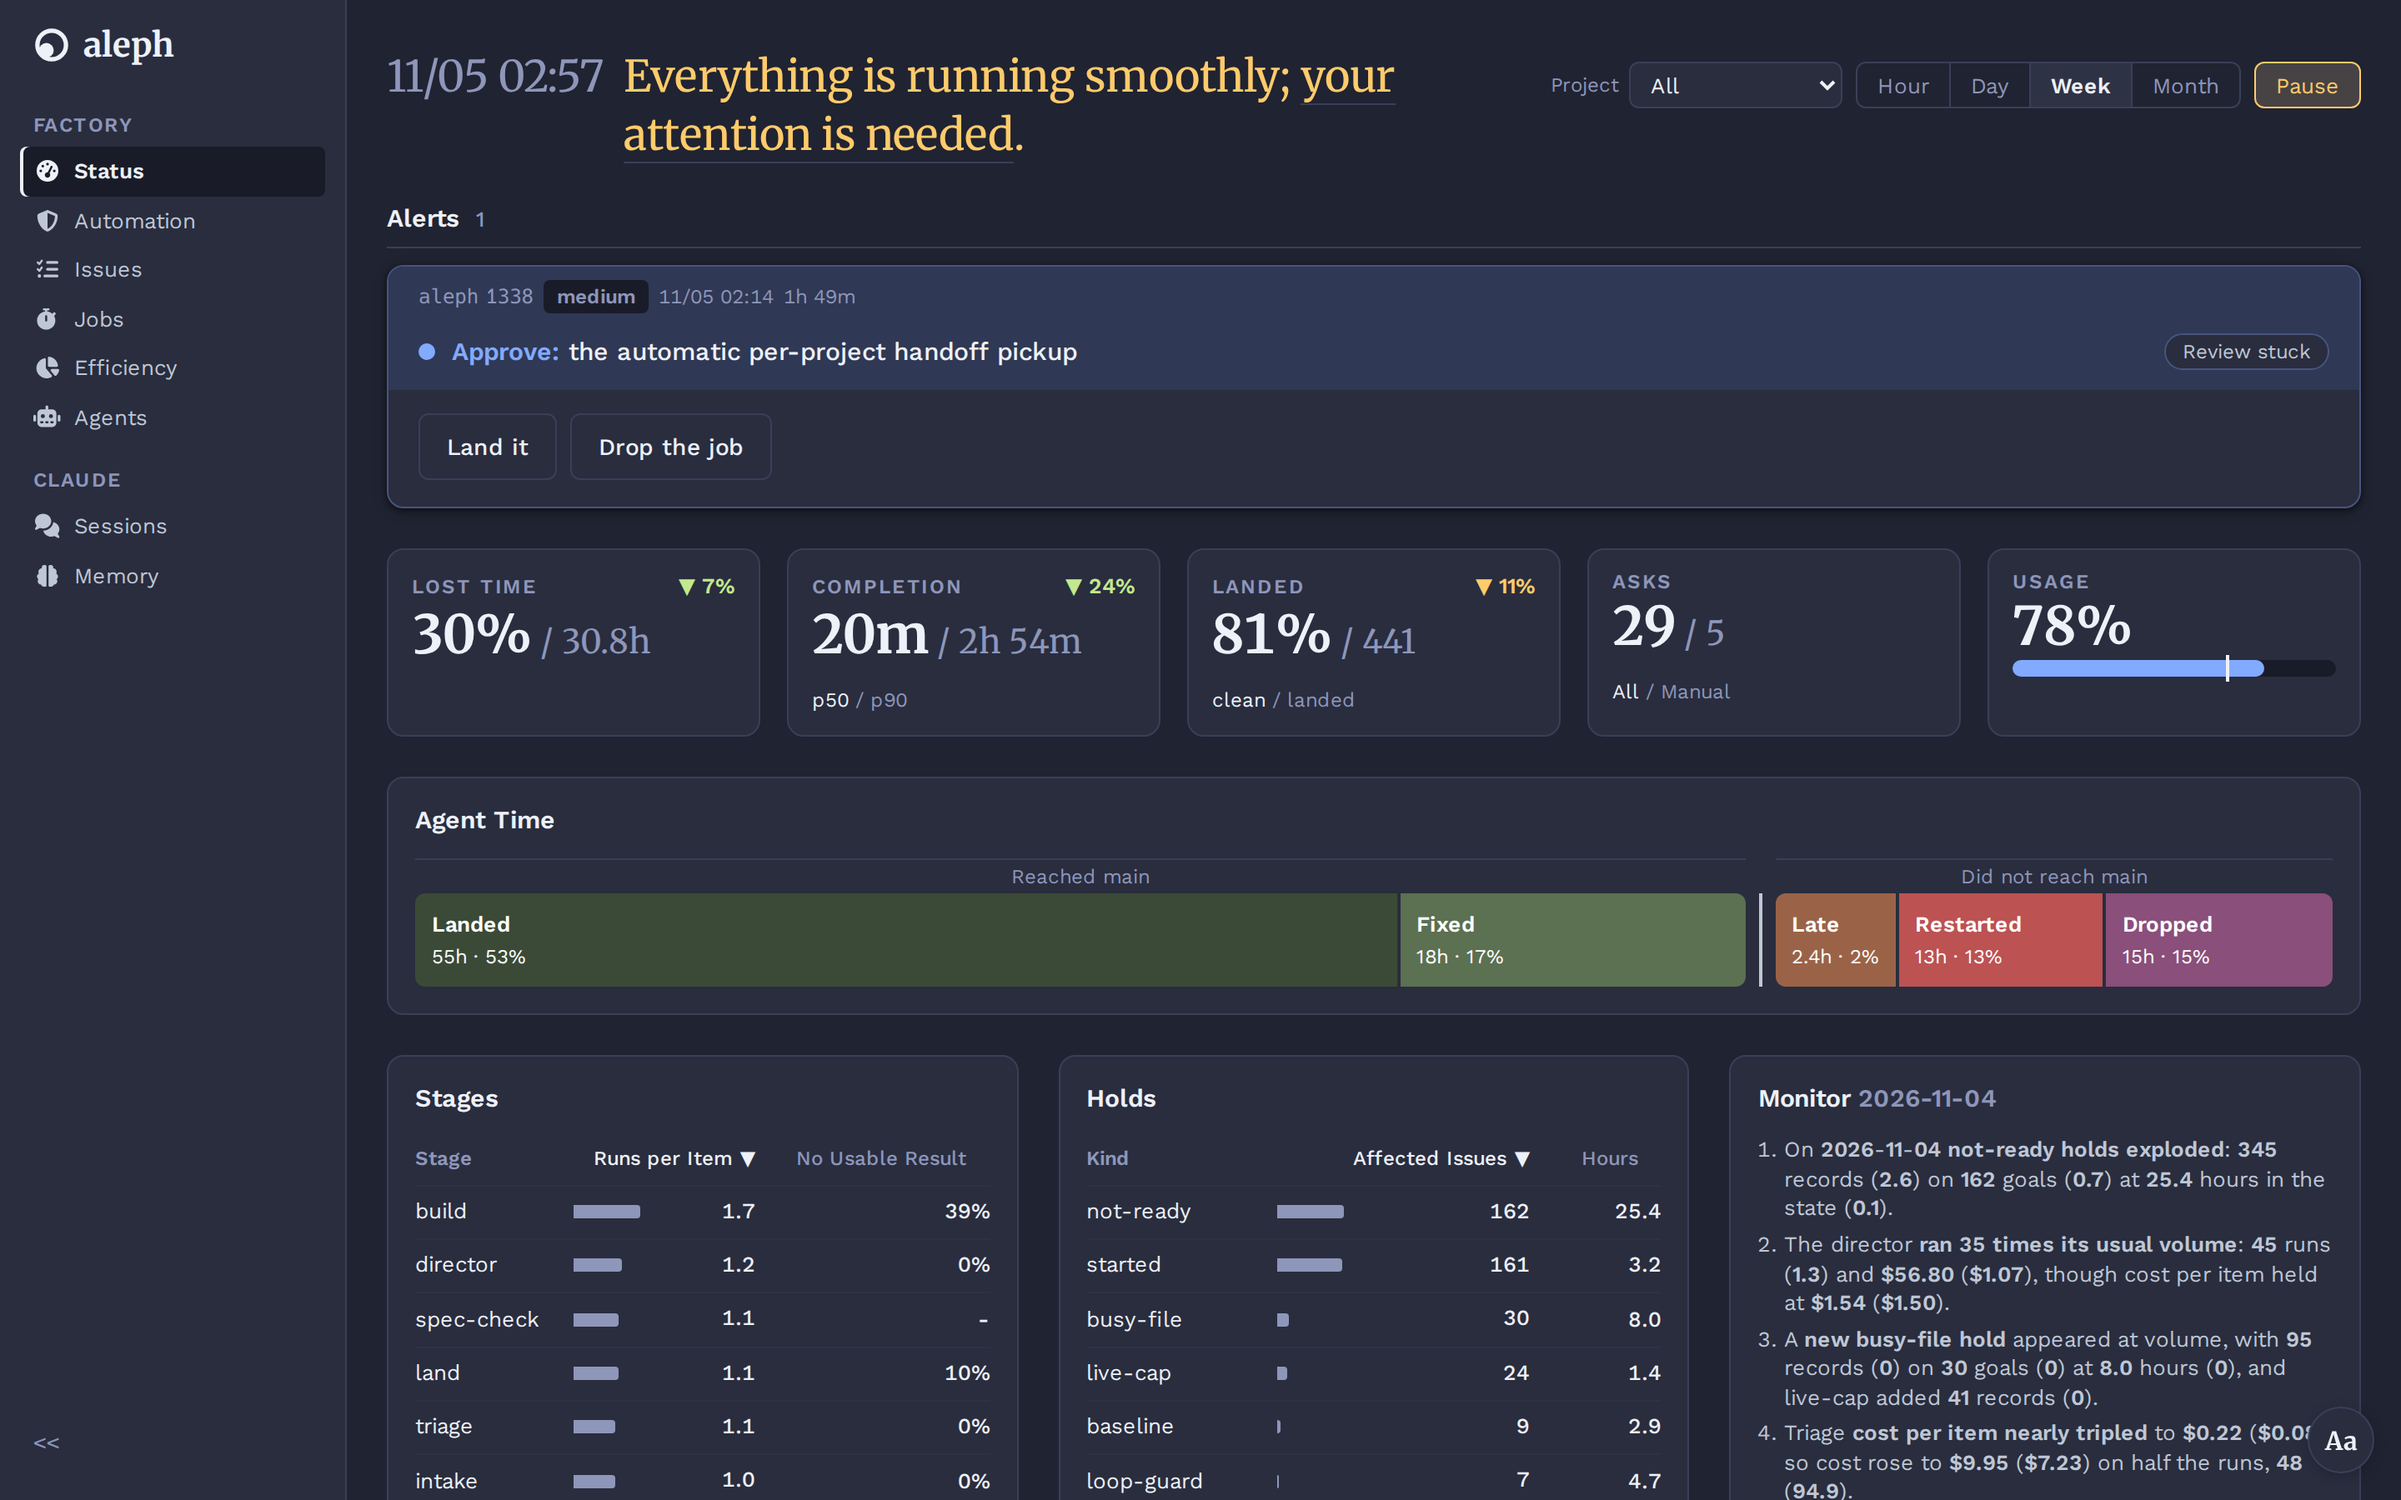
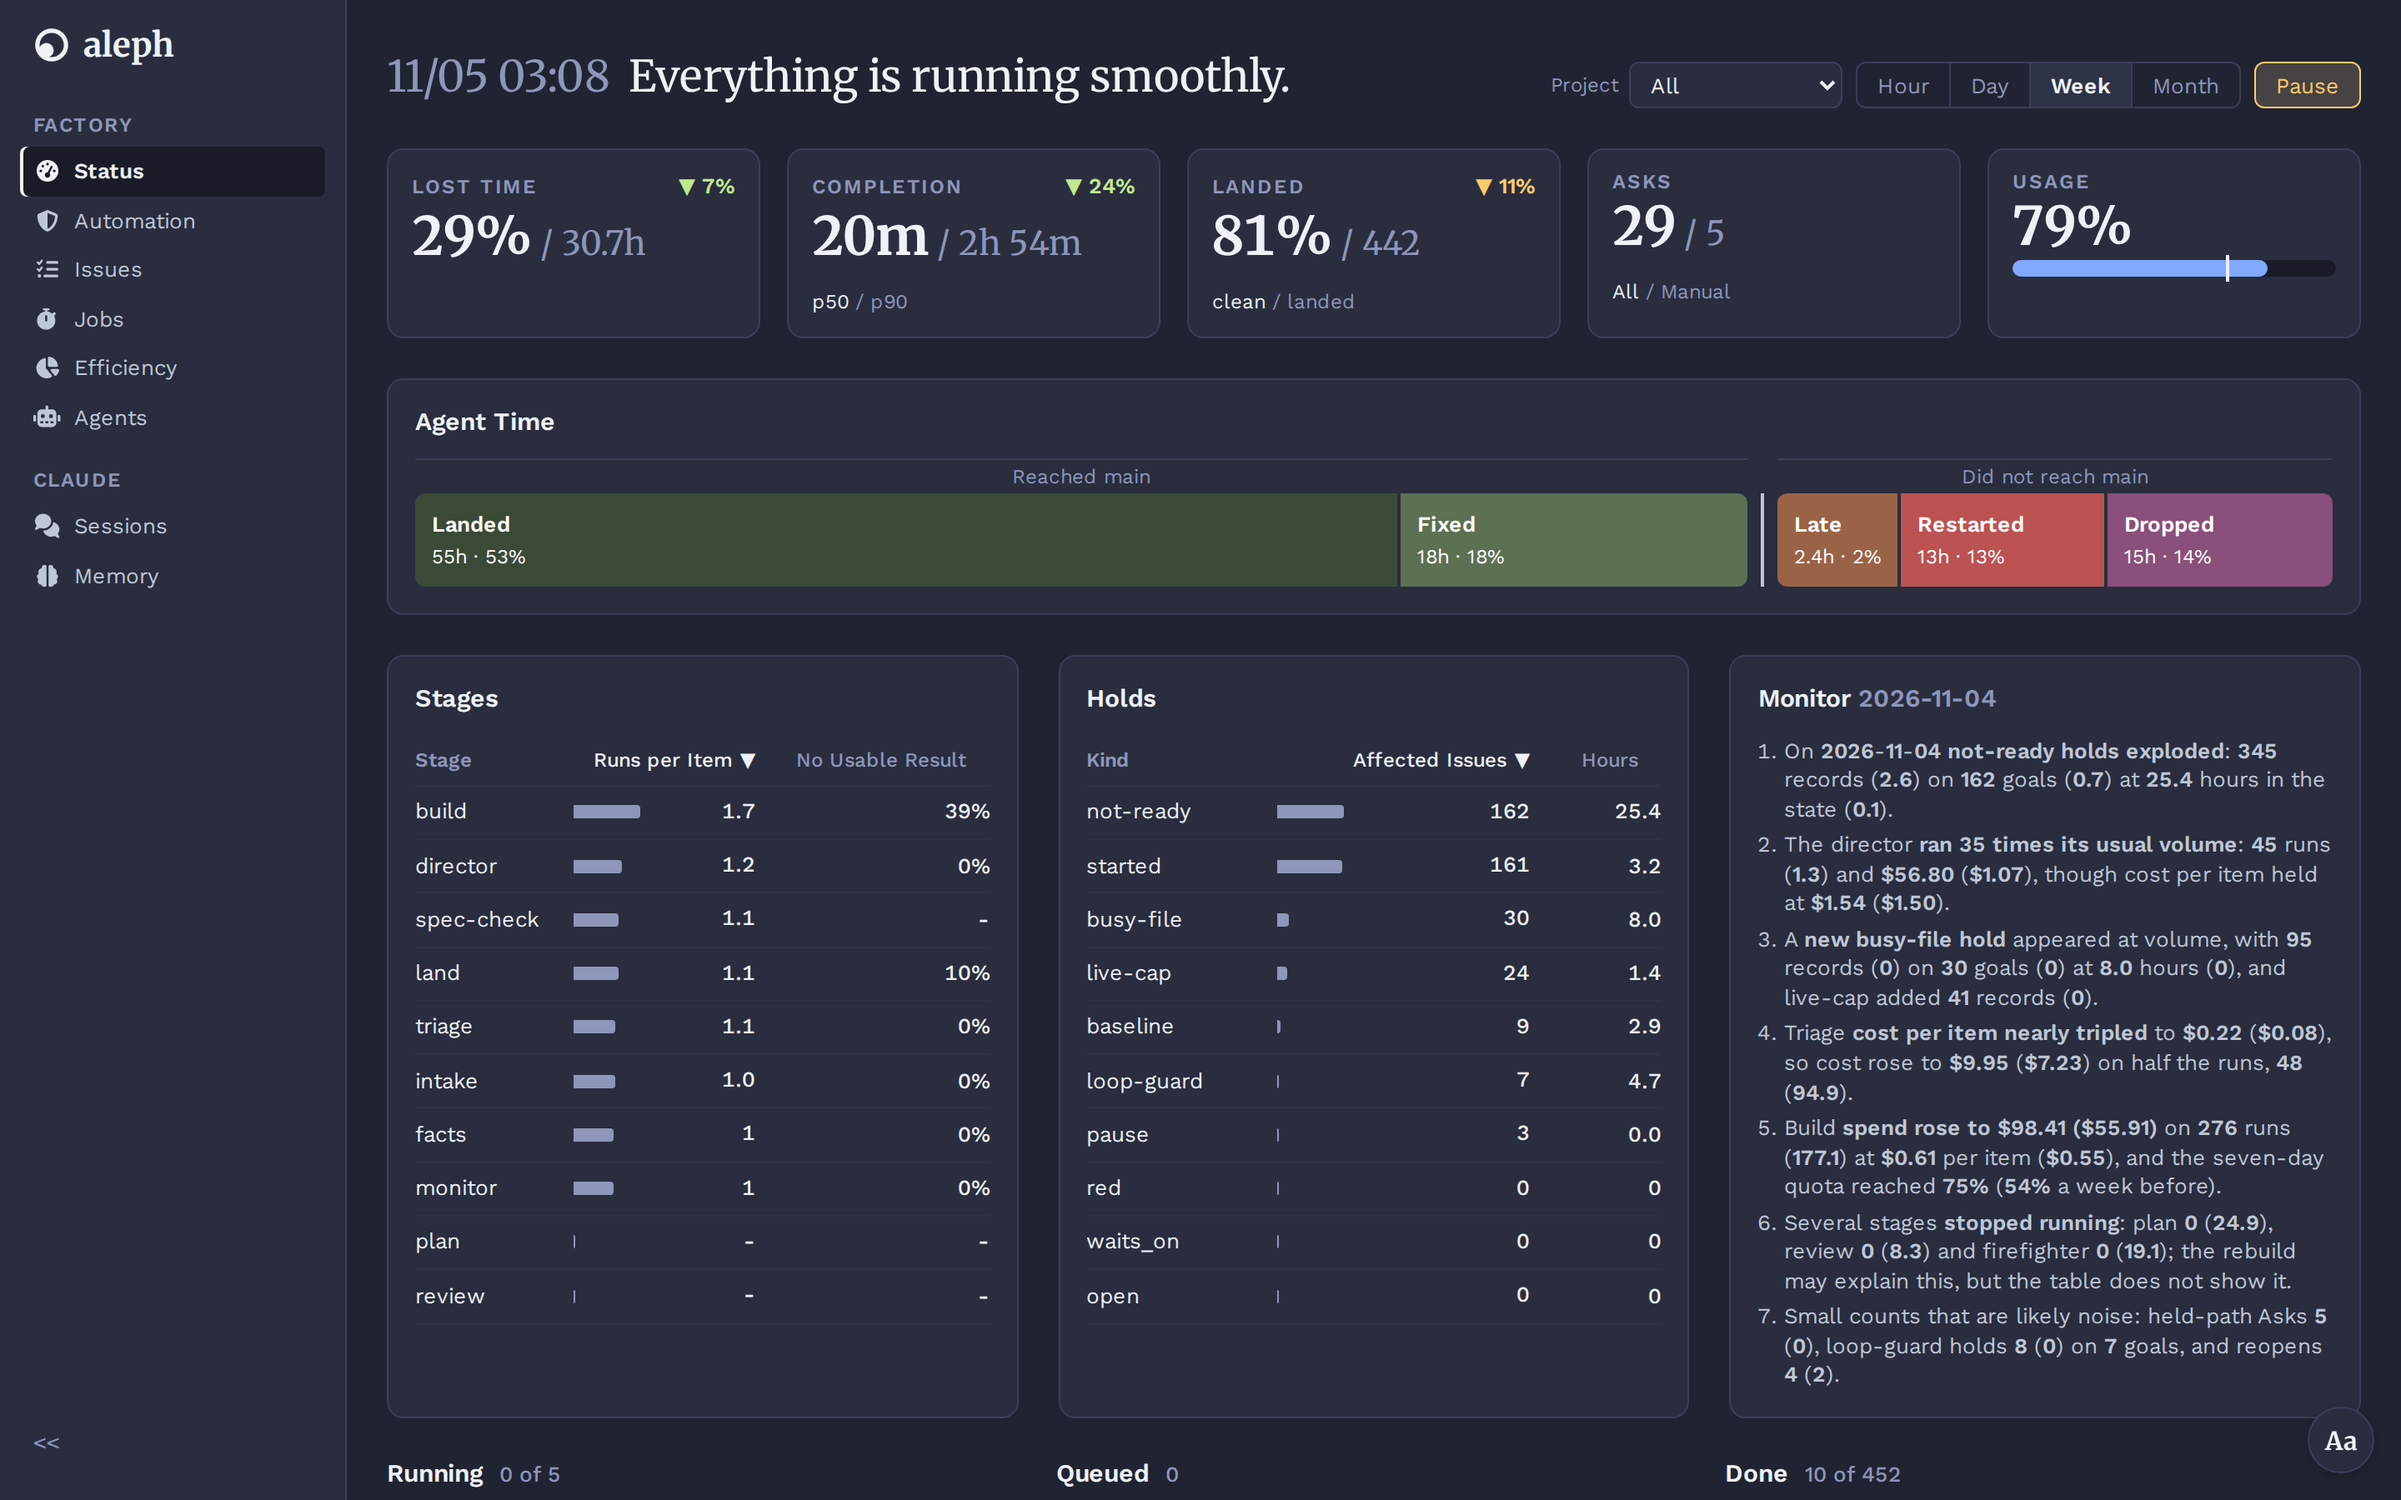
plainer readme, screenshot in a clean state
Claude-Session: https://claude.ai/code/session_01TUujmdTWvTjhoqrbBuqTAx

diff --git a/README.md b/README.md
@@ -1,8 +1,6 @@
 <h1 align="center">aleph</h1>
 
-<p align="center">
-  <b>A personal Claude Code plugin that remembers, guards each session, and builds its own issue list.</b>
-</p>
+<p align="center">A Claude Code plugin for one person: memory, guard rails, and a factory that works through the issue list.</p>
 
 <p align="center">
   <a href="https://github.com/crsmithdev/aleph/actions/workflows/ci.yml"><img src="https://github.com/crsmithdev/aleph/actions/workflows/ci.yml/badge.svg" alt="CI"></a>
@@ -13,31 +11,31 @@
 <p align="center">
   <picture>
     <source media="(prefers-color-scheme: dark)" srcset="docs/images/status-dark.png">
-    <img alt="The aleph Status page: alerts that wait for you, lost time, completion, landed share, asks and usage, then agent time, stages, holds and the monitor's findings." src="docs/images/status-light.png" width="900">
+    <img alt="The aleph Status page." src="docs/images/status-light.png" width="900">
   </picture>
 </p>
 
-Aleph sits under every Claude Code session. Hooks give the session its memory and trace each turn, and they stop the mistakes that cost the most later: an edit on `main`, a secret in a commit, a claim of "done" with no run behind it. Behind the sessions, a factory takes each open issue, writes a spec, builds it in a worktree, checks it, reviews it and lands it on `main`. It asks you only what it cannot decide.
+I use aleph every day. It loads into each Claude Code session and adds memory, tracing and a few checks. It also runs a factory: it takes an open issue, writes a spec, builds the change in a worktree, tests it, reviews it and lands it on `main`. When it cannot decide something, it asks me.
 
-It is one person's setup, built for one machine. Install it as it is, or fork it and take the parts you want.
+It is built for my machine and my habits. Use it as it is, or take the parts you want.
 
 ## Features
 
-- **Memory vault.** An Obsidian vault in its own git repo. Each session starts with `MEMORY.md` and the repo's core lines, and each prompt brings in up to 3 notes that bear on it. [Vault](docs/vault.md)
-- **Verify gate.** A `Stop` hook blocks a final message that claims completion when no run after the last edit supports it. [Verify gate](docs/verify-gate.md)
-- **Guards.** `main` takes no edits outside `.worktrees/`, a commit with a secret or a debug leftover is denied, and a `gh` write to another owner's repo asks first.
-- **Context gate.** A warning as the context fills, and a handoff at the first compaction that the next session picks up by itself. [Context gate](docs/context-gate.md)
-- **Tracing.** Each turn is one Langfuse trace with every tool call, subagent, model call and its cost. [Langfuse](docs/langfuse.md)
-- **Issue store.** One list per repo in a private git repo, written only through `aleph issue`, with notes that are append-only. [Issues](docs/issues.md)
-- **Factory.** Intake writes a spec with an Oracle, a worker builds it in a worktree, then checks, a keep-gate on new tests and a fresh reviewer decide before a land as one squash commit. Failures go back to the worker for a fix round. [Factory](docs/factory.md)
-- **Director.** Each question the factory would ask goes first to a read-only agent that decides it or escalates it with a case. An Always rule turns a repeated answer into policy.
-- **Model routing.** Jev reads each spec and gives the build Haiku, Sonnet or Opus, and the small tiers can move to a local `gpt-oss-20b` on the GPU.
-- **Web UI.** Status, issues, jobs, efficiency, agents, sessions and memory, light and dark, on `127.0.0.1`. [UI](docs/ui.md)
-- **Skills.** 23 skills for the work around code: grill a plan, red-team it, write the spec, TDD, diagnose a bug, review a branch, tidy a repo, write docs, hand off a session. Run one as `/aleph:<name>`.
+- **Memory.** Notes live in an Obsidian vault. Each session starts with the core notes, and each prompt gets up to 3 more that fit it. [Vault](docs/vault.md)
+- **Verify gate.** Claude cannot say "done" after a code change unless a run after the last edit backs it up. [Verify gate](docs/verify-gate.md)
+- **Guards.** No edits on `main` outside a worktree. No commits with a secret or a stray `debugger`. A `gh` write to someone else's repo asks first.
+- **Handoffs.** A warning when the context fills up. After a compaction, Claude writes a handoff and the next session picks it up.
+- **Tracing.** Each turn is one Langfuse trace, with each tool call, subagent and model call and what it cost. [Langfuse](docs/langfuse.md)
+- **Issues.** One list per repo, kept in a private git repo. Only `aleph issue` writes to it. [Issues](docs/issues.md)
+- **Factory.** Intake writes a spec with a test that proves it. A worker builds it. Checks and a fresh reviewer decide if it lands. A failure goes back to the worker to fix. [Factory](docs/factory.md)
+- **Director.** An agent answers the factory's questions when it can, and passes the rest to me with a short case. An "Always" button turns an answer into a rule.
+- **Model routing.** Small changes go to Haiku or Sonnet, larger ones to Opus. Small tiers can run on a local model instead.
+- **Web UI.** Status, issues, jobs, cost, agents, sessions and memory, in light and dark. [UI](docs/ui.md)
+- **Skills.** 23 skills: grill a plan, red-team it, write a spec, test first, debug, review a branch, clean up a repo, write docs, hand off a session. Run one with `/aleph:<name>`.
 
 ## Quick start
 
-Requires Claude Code 2.1 or later and [Bun](https://bun.sh).
+You need Claude Code 2.1 or later and [Bun](https://bun.sh).
 
 ```bash
 git clone git@github.com:crsmithdev/aleph.git ~/aleph
@@ -47,7 +45,7 @@ ln -s ~/aleph/identity/CLAUDE.md ~/.claude/CLAUDE.md   # optional: the identity 
 ln -s ~/aleph/bin/aleph ~/aleph/bin/aleph-ui ~/.local/bin/
 ```
 
-Start a Claude Code session in any repo. The `SessionStart` hooks inject the vault's memory and the factory report. Then:
+Start a Claude Code session in any repo, then try:
 
 ```bash
 /aleph:grill-me I want to move the cache from Redis to SQLite        # in the session
@@ -57,19 +55,19 @@ aleph issue list aleph --status open
 aleph-ui --port 3020                                                  # prints the URL
 ```
 
-Without Langfuse keys the tracing hooks exit silently and everything else works. To turn on the factory for a repo, set `"sandbox": true` for it in `~/.aleph/repos.json` and start the timers in [Factory](docs/factory.md).
+Tracing is off until you add Langfuse keys; everything else works without them. To let the factory build a repo, set `"sandbox": true` for it in `~/.aleph/repos.json` and start the timers in [Factory](docs/factory.md).
 
-Edits to a `SKILL.md` apply at once. After you change a hook, run `/reload-plugins`. To try a checkout in one session only, run `claude --plugin-dir <path>`.
+A change to a `SKILL.md` applies at once. After you change a hook, run `/reload-plugins`. To try a checkout in one session only, run `claude --plugin-dir <path>`.
 
 ## Development
 
 ```bash
 bun run test        # the suite, in parallel, with a mock Langfuse
-bun run test:all    # the suite and the slow tests that start Chrome, as CI and the factory's checks run it
+bun run test:all    # also the slow tests that start Chrome, as CI runs it
 bunx tsc            # the type check
 ALEPH_LIVE=1 bun test tests/live   # needs a running Langfuse and a logged-in claude
 ```
 
-CI runs the type check and the suite on every push. The suite does not prove that Langfuse stores a trace: a 200 on the OTLP POST can still lose the batch. Only the live tests fetch the trace back.
+CI runs the type check and the suite on each push. Only the live tests prove that Langfuse kept a trace: a 200 from Langfuse does not.
 
-Read [PRINCIPLES.md](PRINCIPLES.md) before a design, review or code change.
+Read [PRINCIPLES.md](PRINCIPLES.md) before you change the design.
